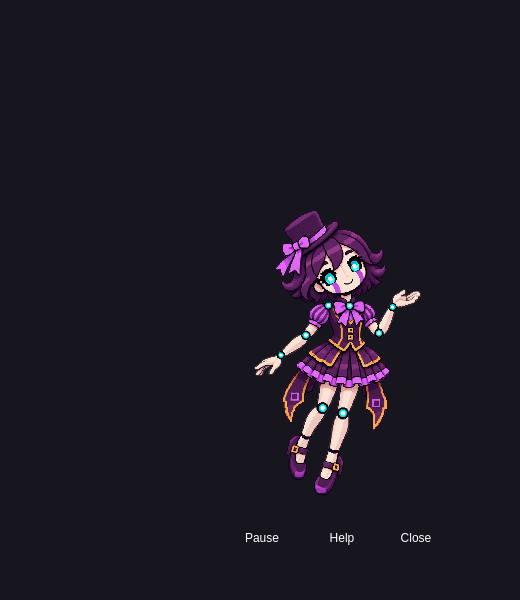
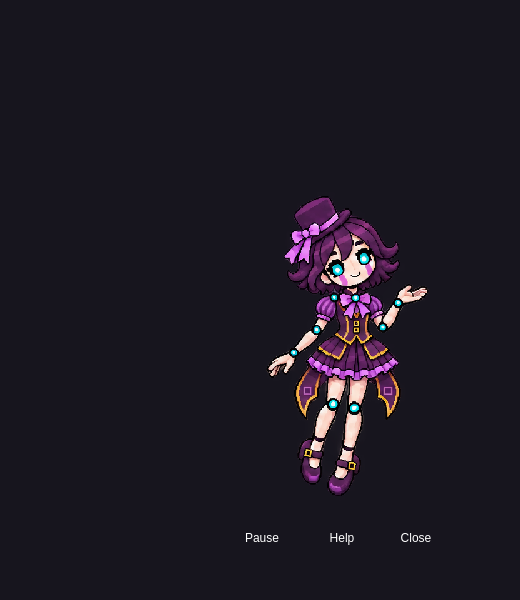
Animate puppet limbs and blinking with sprite frames

Changed region(s): [[0.4923, 0.33, 0.8308, 0.84]]

diff --git a/src/desktop-puppet/Main.qml b/src/desktop-puppet/Main.qml
@@ -17,7 +17,7 @@ ApplicationWindow {
     property bool helpVisible: false
     function placeInitial() { puppet.x = Math.max(0, win.width - puppet.width - 44); puppet.y = Math.max(0, win.height - puppet.height - 44); updateInput() }
     function updateInput() { backend.inputArea(puppet.x, puppet.y, puppet.width, puppet.height) }
-    function greet() { greeting = true; greetingTimer.restart(); bounce.restart() }
+    function greet() { greeting = true; greetingTimer.restart(); character.gesture() }
     onWidthChanged: { puppet.x = Math.min(puppet.x, Math.max(0, width - puppet.width)); updateInput() }
     onHeightChanged: { puppet.y = Math.min(puppet.y, Math.max(0, height - puppet.height)); updateInput() }
     Shortcut { sequence: "Q"; context: Qt.ApplicationShortcut; onActivated: Qt.quit() }
@@ -50,23 +50,10 @@ ApplicationWindow {
                 text: win.helpVisible ? qsTr("Drag to move • Click to greet\nSpace: pause • Q / Esc: close") : qsTr("Hello! Here I am.")
             }
         }
-        Item {
-            id: figure
+        PuppetAnimation {
+            id: character
             y: 66; width: parent.width; height: 320
-            property real lift: 0
-            transform: [Rotation { origin.x: 140; origin.y: 290; angle: sway.angle }, Translate { y: figure.lift }]
-            QtObject { id: sway; property real angle: -1.3 }
-            SequentialAnimation {
-                running: !win.paused; loops: Animation.Infinite
-                NumberAnimation { target: sway; property: "angle"; from: -1.3; to: 1.3; duration: 1800; easing.type: Easing.InOutSine }
-                NumberAnimation { target: sway; property: "angle"; from: 1.3; to: -1.3; duration: 1800; easing.type: Easing.InOutSine }
-            }
-            SequentialAnimation {
-                id: bounce
-                NumberAnimation { target: figure; property: "lift"; to: -12; duration: 160; easing.type: Easing.OutQuad }
-                NumberAnimation { target: figure; property: "lift"; to: 0; duration: 320; easing.type: Easing.OutBounce }
-            }
-            Image { anchors.fill: parent; source: "qrc:/assets/puppet.png"; fillMode: Image.PreserveAspectFit; smooth: false; mipmap: false }
+            playing: !win.paused
         }
         MouseArea {
             id: moveArea

diff --git a/src/desktop-puppet/PuppetAnimation.qml b/src/desktop-puppet/PuppetAnimation.qml
@@ -1,0 +1,41 @@
+import QtQuick
+
+Item {
+    id: character
+    objectName: "characterAnimation"
+    property bool playing: true
+    property int frameIndex: 0
+    function gesture() {
+        if (playing)
+            cycle.restart()
+    }
+    Image {
+        anchors.centerIn: parent
+        width: 320; height: 320
+        source: "qrc:/assets/puppet-motion.png"
+        sourceClipRect: Qt.rect((character.frameIndex % 3) * 512,
+                               Math.floor(character.frameIndex / 3) * 512, 512, 512)
+        smooth: false
+        mipmap: false
+    }
+    // Brief closing/opening frames keep the blink short; the resting pose
+    // holds between gestures instead of continuously waving at the user.
+    SequentialAnimation {
+        id: cycle
+        running: true
+        paused: !character.playing
+        loops: Animation.Infinite
+        PropertyAction { target: character; property: "frameIndex"; value: 1 }
+        PauseAnimation { duration: 160 }
+        PropertyAction { target: character; property: "frameIndex"; value: 2 }
+        PauseAnimation { duration: 100 }
+        PropertyAction { target: character; property: "frameIndex"; value: 3 }
+        PauseAnimation { duration: 110 }
+        PropertyAction { target: character; property: "frameIndex"; value: 4 }
+        PauseAnimation { duration: 160 }
+        PropertyAction { target: character; property: "frameIndex"; value: 5 }
+        PauseAnimation { duration: 160 }
+        PropertyAction { target: character; property: "frameIndex"; value: 0 }
+        PauseAnimation { duration: 2300 }
+    }
+}

diff --git a/tests/desktop-puppet/puppet-tests.cpp b/tests/desktop-puppet/puppet-tests.cpp
@@ -50,6 +50,32 @@ private slots:
         QTRY_VERIFY(window->property("paused").toBool());
         QTest::keyClick(window, Qt::Key_Space);
         QTRY_VERIFY(!window->property("paused").toBool());
+        auto *character = window->findChild<QQuickItem *>("characterAnimation");
+        QVERIFY(character);
+        window->setProperty("paused", true);
+        const int stoppedFrame = character->property("frameIndex").toInt();
+        QTest::qWait(450);
+        QCOMPARE(character->property("frameIndex").toInt(), stoppedFrame);
+        window->setProperty("paused", false);
+        QVERIFY(QMetaObject::invokeMethod(character, "gesture"));
+        QTRY_COMPARE(character->property("frameIndex").toInt(), 3);
+        QTRY_COMPARE(character->property("frameIndex").toInt(), 0);
+        window->setProperty("paused", true);
+        QImage previous;
+        const QString captures = qEnvironmentVariable("PUPPET_TEST_CAPTURES");
+        for (int frame = 0; frame < 6; ++frame) {
+            character->setProperty("frameIndex", frame);
+            QTest::qWait(50);
+            const auto rendered = window->grabWindow();
+            QVERIFY(!rendered.isNull());
+            if (!previous.isNull()) QVERIFY(rendered != previous);
+            previous = rendered;
+            if (!captures.isEmpty()) {
+                QDir().mkpath(captures);
+                QVERIFY(rendered.save(captures + QString("/frame-%1.png").arg(frame)));
+            }
+        }
+        window->setProperty("paused", false);
         const auto oldX = puppet->x();
         QTest::mousePress(window, Qt::LeftButton, {}, inside);
         QTest::mouseMove(window, inside - QPoint(35, 0), 40);

diff --git a/docs/active/current-operation/desktop-puppet.md b/docs/active/current-operation/desktop-puppet.md
@@ -20,12 +20,12 @@ Build after changing source or assets; stop a running preview before rebuilding.
 | Action | Result |
 |---|---|
 | Drag the character | Move within her current monitor |
-| Click the character | Small bounce and a brief scripted greeting |
-| Pause / Resume or Space | Stop/start idle sway |
+| Click the character | Replay the arm/leg gesture and blink, plus a brief scripted greeting |
+| Pause / Resume or Space | Freeze/resume the current animation frame |
 | Help or `?` | Toggle shortcut help |
 | Close, Q or Escape | Exit the preview |
 
-Keyboard shortcuts apply when the companion has keyboard focus. Her idle movement is a whole-image sway, not skeletal animation or a finished sprite cycle. Position is temporary and resets on launch. The overlay occupies one monitor; dragging between monitors is not implemented.
+Keyboard shortcuts apply when the companion has keyboard focus. Her animation uses six transparent sprite frames: arm/hand poses, knee/foot movement, half-closed eyes and a closed-eye blink. The motion lasts 690 ms followed by a 2.3-second resting pose. The closed-eye frame lasts 110 ms. This is a short frame-based animation, not a skeletal rig; no whole-image sway remains. Clicking replays the gesture when animation is not paused. Position is temporary and resets on launch. The overlay occupies one monitor; dragging between monitors is not implemented.
 
 The transparent Wayland layer uses an input region limited to the character/control rectangle (including space for the help bubble). Outside that rectangle clicks pass through; transparent gaps inside the rectangle still intercept clicks. It does not reserve desktop workspace. Its top layer remains above ordinary windows; fullscreen behavior follows compositor policy. Removing the selected output closes the companion.
 
@@ -51,7 +51,7 @@ QT_QPA_PLATFORMTHEME=basic QT_QPA_PLATFORM=offscreen QT_QUICK_BACKEND=software \
   runtime/desktop-puppet/marionette-puppet --preview --smoke /tmp/puppet-preview.png
 ```
 
-The Qt test loads the actual QML, checks greeting, pause/resume, dragging, input-region bounds, live Danish translation from a synthetic temporary language file, image rendering and window close. The offscreen backend warns that native input masks are unsupported: this checks the requested region, not compositor click-through. Live desktop verification separately confirmed transparent rendering over applications and wallpaper, readable controls and the Help panel. Long-session behavior, other compositors, monitor hotplug and performance under inference load remain unverified.
+The Qt test loads the actual QML, checks greeting, pause/resume (including frame freeze), gesture progression through the blink back to rest, distinct rendering of all six frames, dragging, input-region bounds, live Danish translation from a synthetic temporary language file, image rendering and window close. The offscreen backend warns that native input masks are unsupported: this checks the requested region, not compositor click-through. Live desktop verification separately confirmed transparent rendering over applications and wallpaper, readable controls and the Help panel. Long-session behavior, other compositors, monitor hotplug and performance under inference load remain unverified.
 
 The companion deliberately has no interface to personal data. A future local event adapter can drive animations without coupling the renderer to conversation storage, but that adapter is not implemented.
 
@@ -60,3 +60,11 @@ The companion deliberately has no interface to personal data. A future local eve
 `src/desktop-puppet/assets/puppet.png` is a built-in imagegen edit of the puppet concept created in this chat. Final edit prompt: remove all strings and the wooden crossbar, remove cyan/blue hat decoration and loose particles, preserve the face, cyan eyes/joints, purple hair/hat/bow, purple-and-gold outfit and raised-hand pose; restore clothing underneath strings and render a centered full-body transparent cutout. No external character/model assets were downloaded.
 
[1 lines of base64/hex data omitted]
+
+### Arm, leg and blink animation
+
+`assets/puppet-motion.png` is a built-in imagegen edit derived from `puppet.png`, followed by a transparent-background cleanup pass. Prompt: preserve the plain purple hat, outfit, cyan eyes/joints and character identity; create a three-column/two-row sheet of six equally sized, aligned full-body poses, progressively raising/lowering the hand, bending/straightening the legs, and briefly closing both eyes. Remove all background haze, strings, crossbar, particles and labels. The original concept remains a design reference; runtime displays the new sheet.
+
[1 lines of base64/hex data omitted]
+
+Animation verification on 2026-11-14: the QML interaction test passed with all six frames rendered and checked for distinct output; pause froze frame selection, resume advanced, and the replay reached the closed-eye frame then returned to rest. Rendered open/closed-eye poses were visually inspected for actual arm/leg changes and clean transparency. Set `PUPPET_TEST_CAPTURES=/tmp/puppet-frames` when running `desktop-puppet.sh test` to retain those synthetic offscreen renders.
